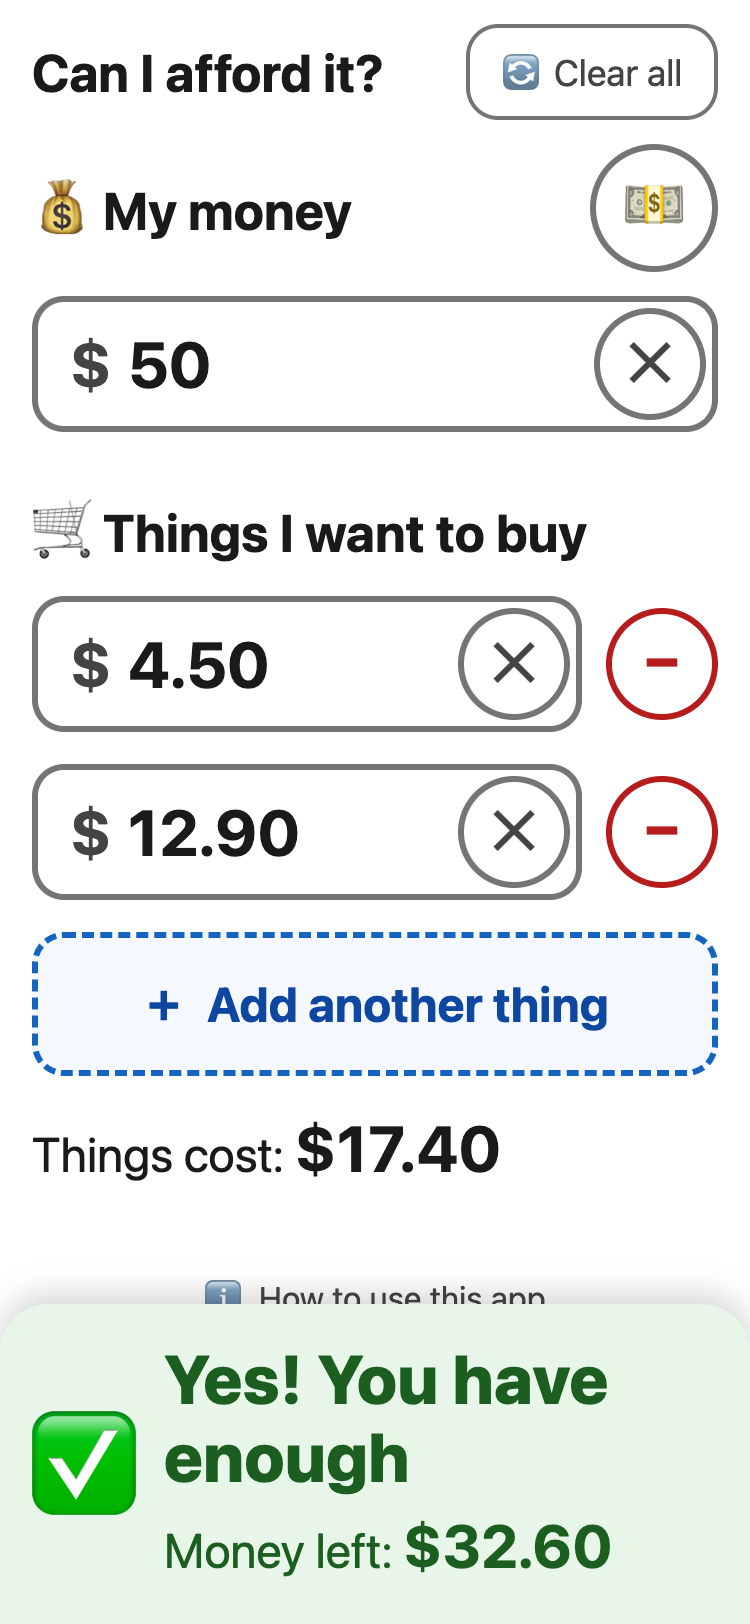
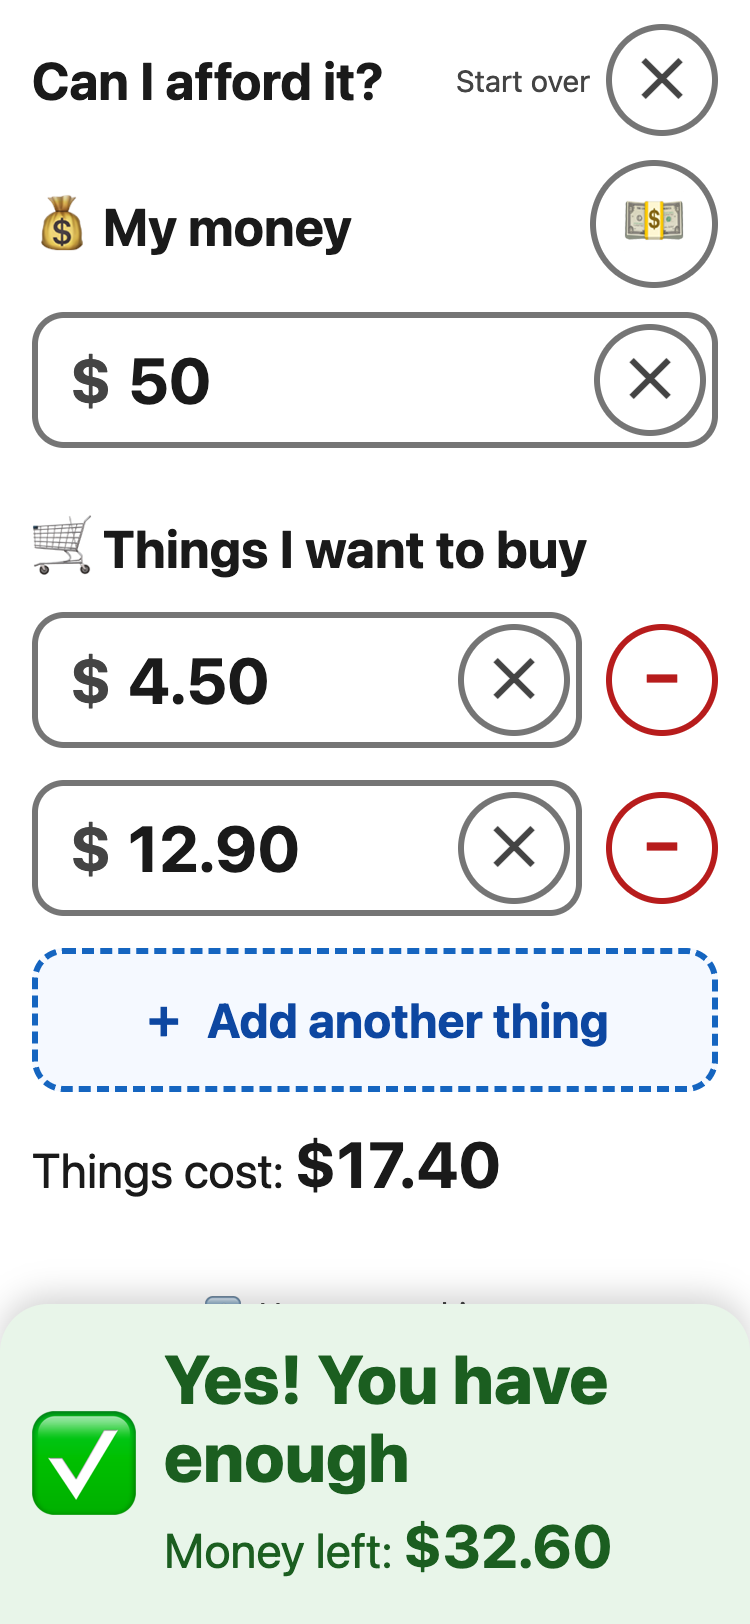
feat: header clear becomes a round X, matching the in-box clear button
Replaces the pill-shaped "Clear all" button with the same round ✕ used
to clear a single box, plus a small "Start over" label beside it. One
glyph now means "clear" everywhere in the app instead of a bordered
button reading differently at the top than inside a field.

The label is aria-hidden and the button carries its own aria-label
("Start over: clear everything"), so screen readers hear it once, not
twice. Hiding now toggles the whole label+button wrapper — hiding just
the button would have left "Start over" floating with nothing to act on.

Guide and screenshots updated, cache bumped to v16.

diff --git a/public/js/app.js b/public/js/app.js
@@ -20,6 +20,7 @@ const moneyInput = $("money-input");
 const speakMoneyBtn = $("speak-money");
 const clearMoneyBtn = $("clear-money");
 const clearAllBtn = $("clear-all");
+const clearAllWrap = document.querySelector(".clear-all-wrap");
 const addItemBtn = $("add-item");
 const moneyChip = $("money-chip");
 const itemsTotalEl = $("items-total");
@@ -173,7 +174,7 @@ function update() {
   speakMoneyBtn.hidden = moneyFilled;
   clearMoneyBtn.hidden = !moneyFilled;
   // nothing entered anywhere yet means nothing to clear
-  clearAllBtn.hidden = !moneyFilled && !anyItemHasValue();
+  clearAllWrap.hidden = !moneyFilled && !anyItemHasValue();
   // one empty row at a time: fill it before another can be added
   addItemBtn.hidden = !lastItemHasValue();
   renderResult({

diff --git a/public/css/styles.css b/public/css/styles.css
@@ -60,16 +60,21 @@ main {
 }
 h1 { font-size: 26px; margin: 0; }
 
-.ghost-btn {
-  min-height: 48px;
-  padding: 8px 16px;
-  font-size: 18px;
-  font-family: inherit;
+/* "Start over" pairs a quiet text label with the same round ✕ used to
+   clear a single box, so one glyph means "clear" everywhere in the app. */
+.clear-all-wrap {
+  display: flex;
+  align-items: center;
+  gap: 8px;
+  flex: none;
+}
+.clear-all-label {
+  font-size: 15px;
   color: var(--color-muted);
-  background: none;
-  border: 2px solid var(--color-border);
-  border-radius: var(--radius);
-  cursor: pointer;
+}
+.clear-all-wrap .clear-btn {
+  position: static;
+  transform: none;
 }
 
 /* ---------- zones ---------- */

diff --git a/public/guide.html b/public/guide.html
@@ -223,9 +223,10 @@
     </figure>
 
     <p>Made a mistake in one box? Tap the <strong>✕</strong> inside that
-    box to empty it. To clear everything at once, tap
-    <strong>🔄 Clear all</strong> at the top. Either way a
-    <strong>Put it back</strong> button appears for a few seconds, in case
+    box to empty it. To clear everything at once, tap the round
+    <strong>✕</strong> next to <strong>Start over</strong> at the top.
+    Either way a <strong>Put it back</strong> button appears for a few
+    seconds, in case
     you did not mean to.</p>
 
     <!-- ============================================================ -->

diff --git a/public/index.html b/public/index.html
@@ -39,9 +39,13 @@
 
   <header class="app-header">
     <h1>Can I afford it?</h1>
-    <button id="clear-all" class="ghost-btn" type="button">
-      <span aria-hidden="true">🔄</span> Clear all
-    </button>
+    <div class="clear-all-wrap">
+      <span class="clear-all-label" aria-hidden="true">Start over</span>
+      <button id="clear-all" class="clear-btn" type="button"
+              aria-label="Start over: clear everything">
+        <span aria-hidden="true">✕</span>
+      </button>
+    </div>
   </header>
 
   <main>

diff --git a/public/sw.js b/public/sw.js
@@ -2,7 +2,7 @@
 // launch picks up new files; firebase.json serves this file with no-cache.
 // "/guide" (not "/guide.html"): Hosting cleanUrls 301s the .html form, and a
 // cached redirected response breaks offline navigations.
-const CACHE = "afford-v15";
+const CACHE = "afford-v16";
 const ASSETS = [
   "/",
   "/index.html",
